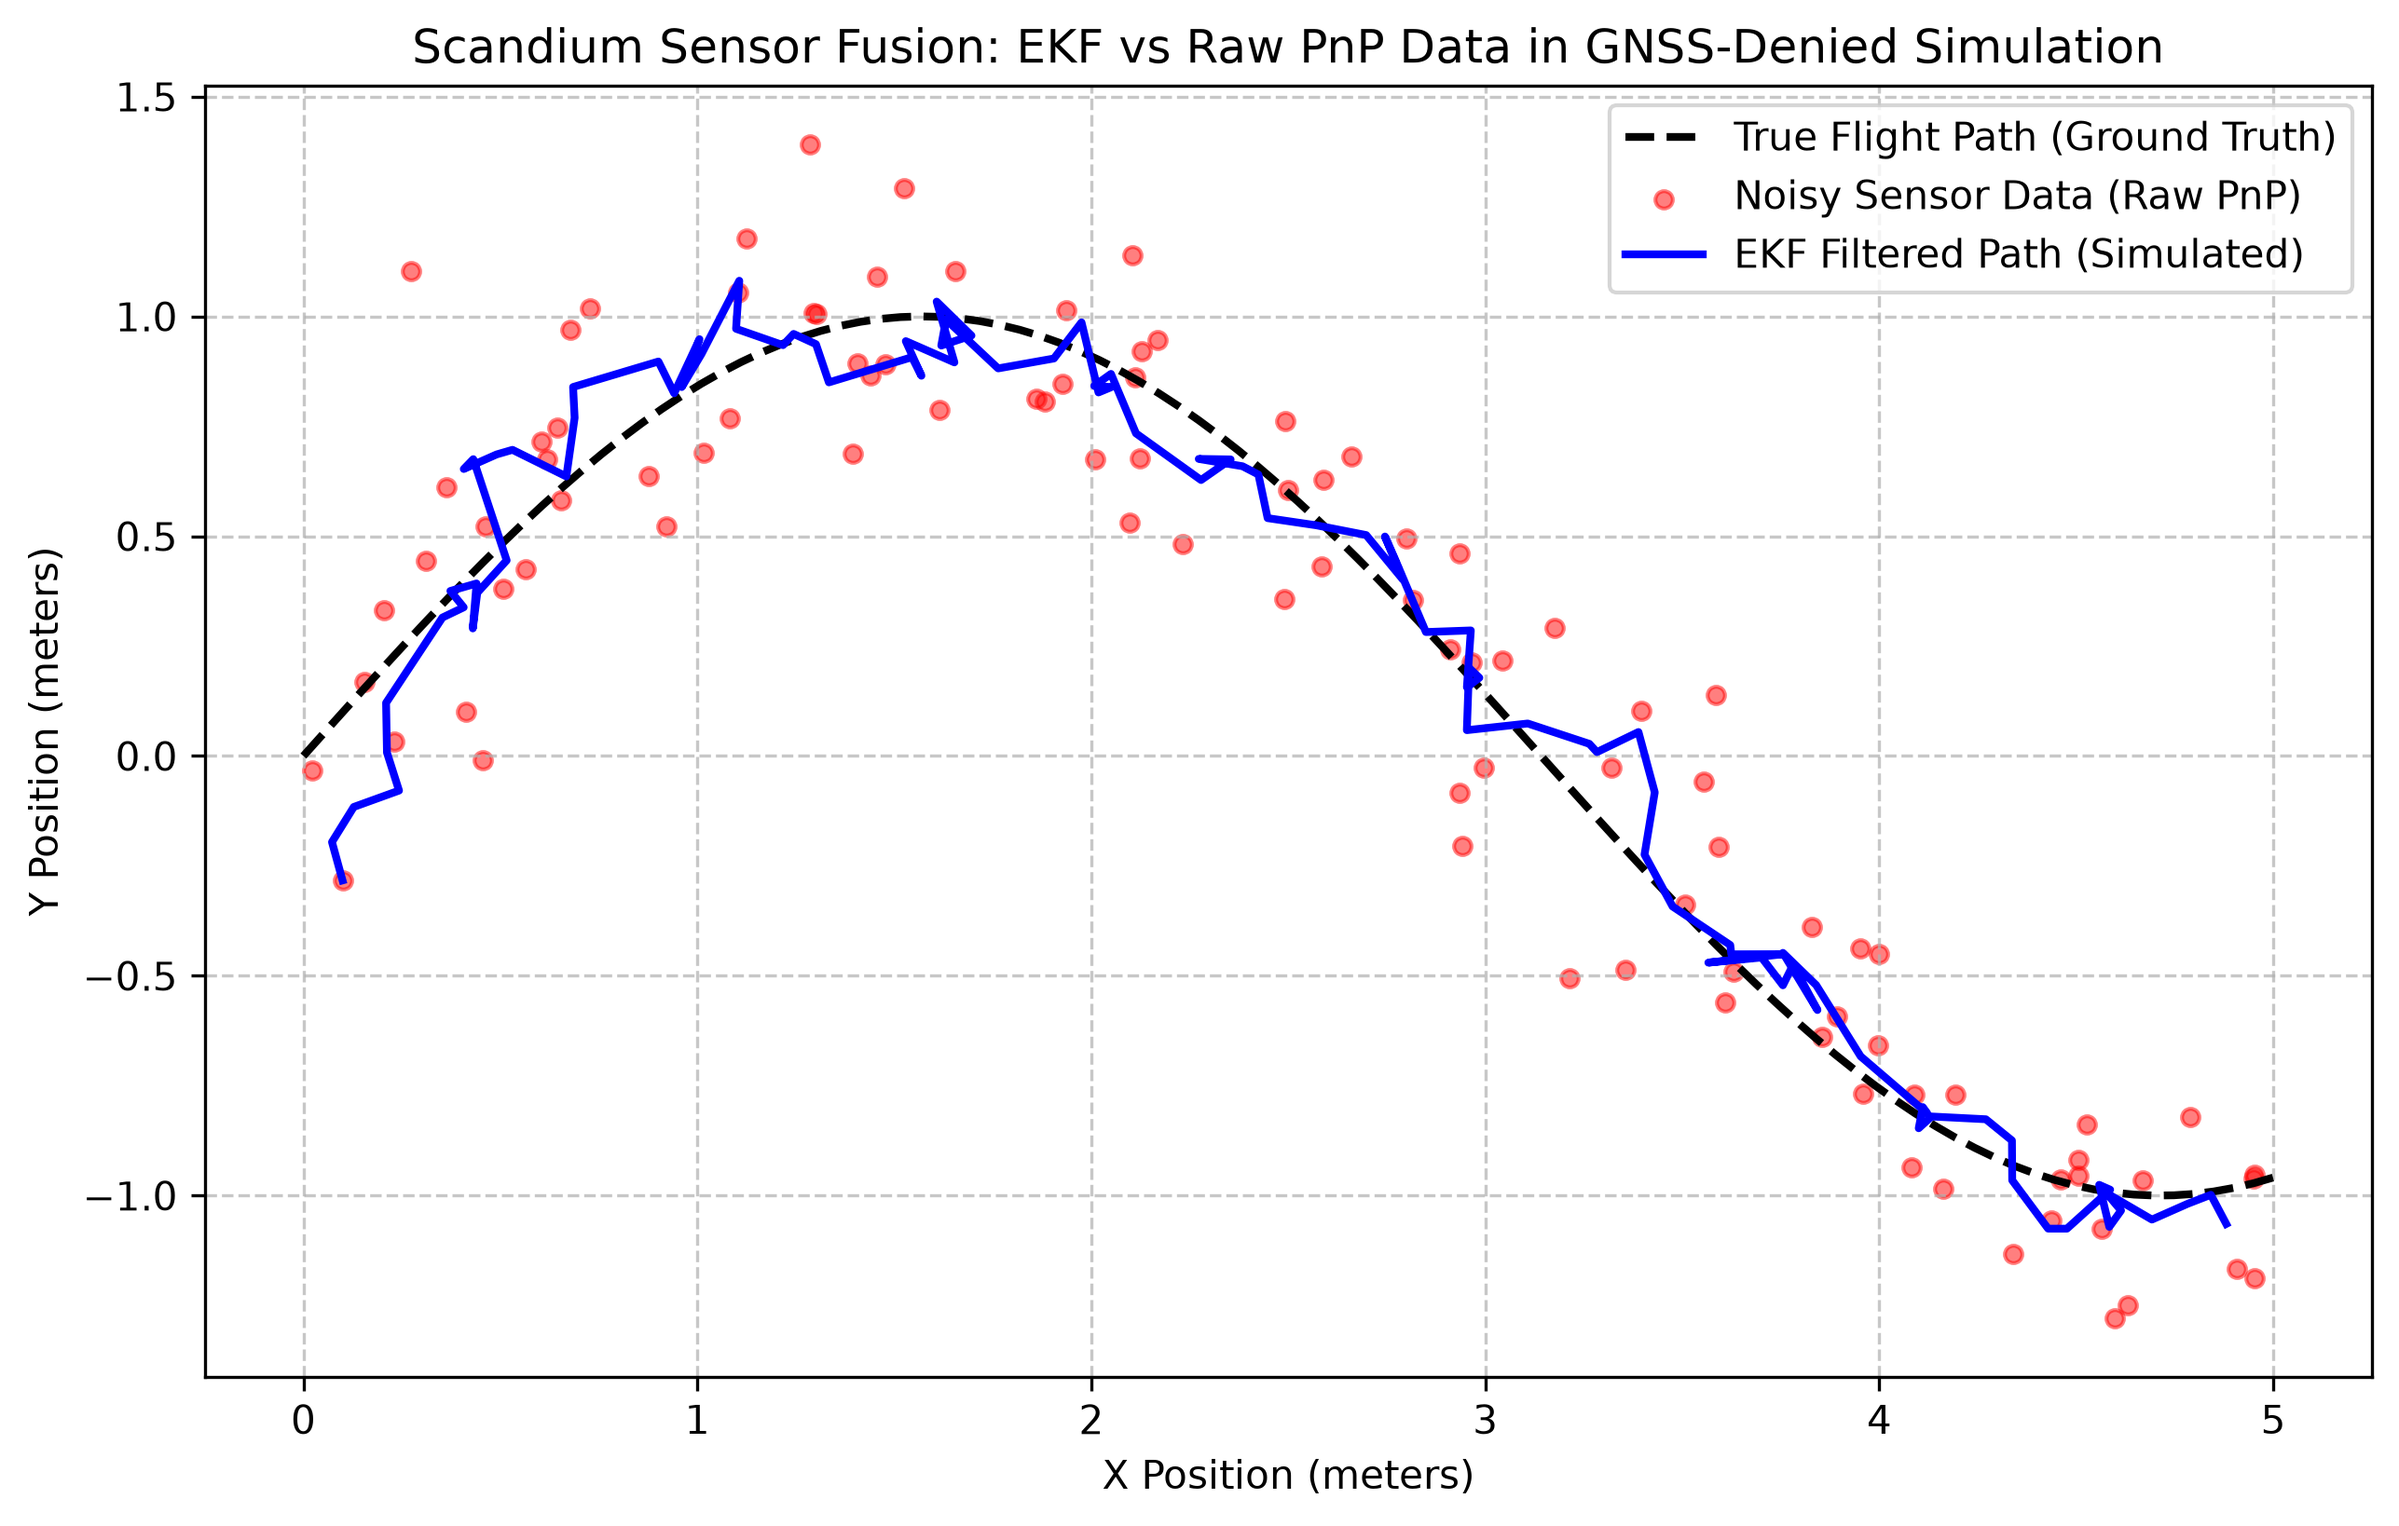
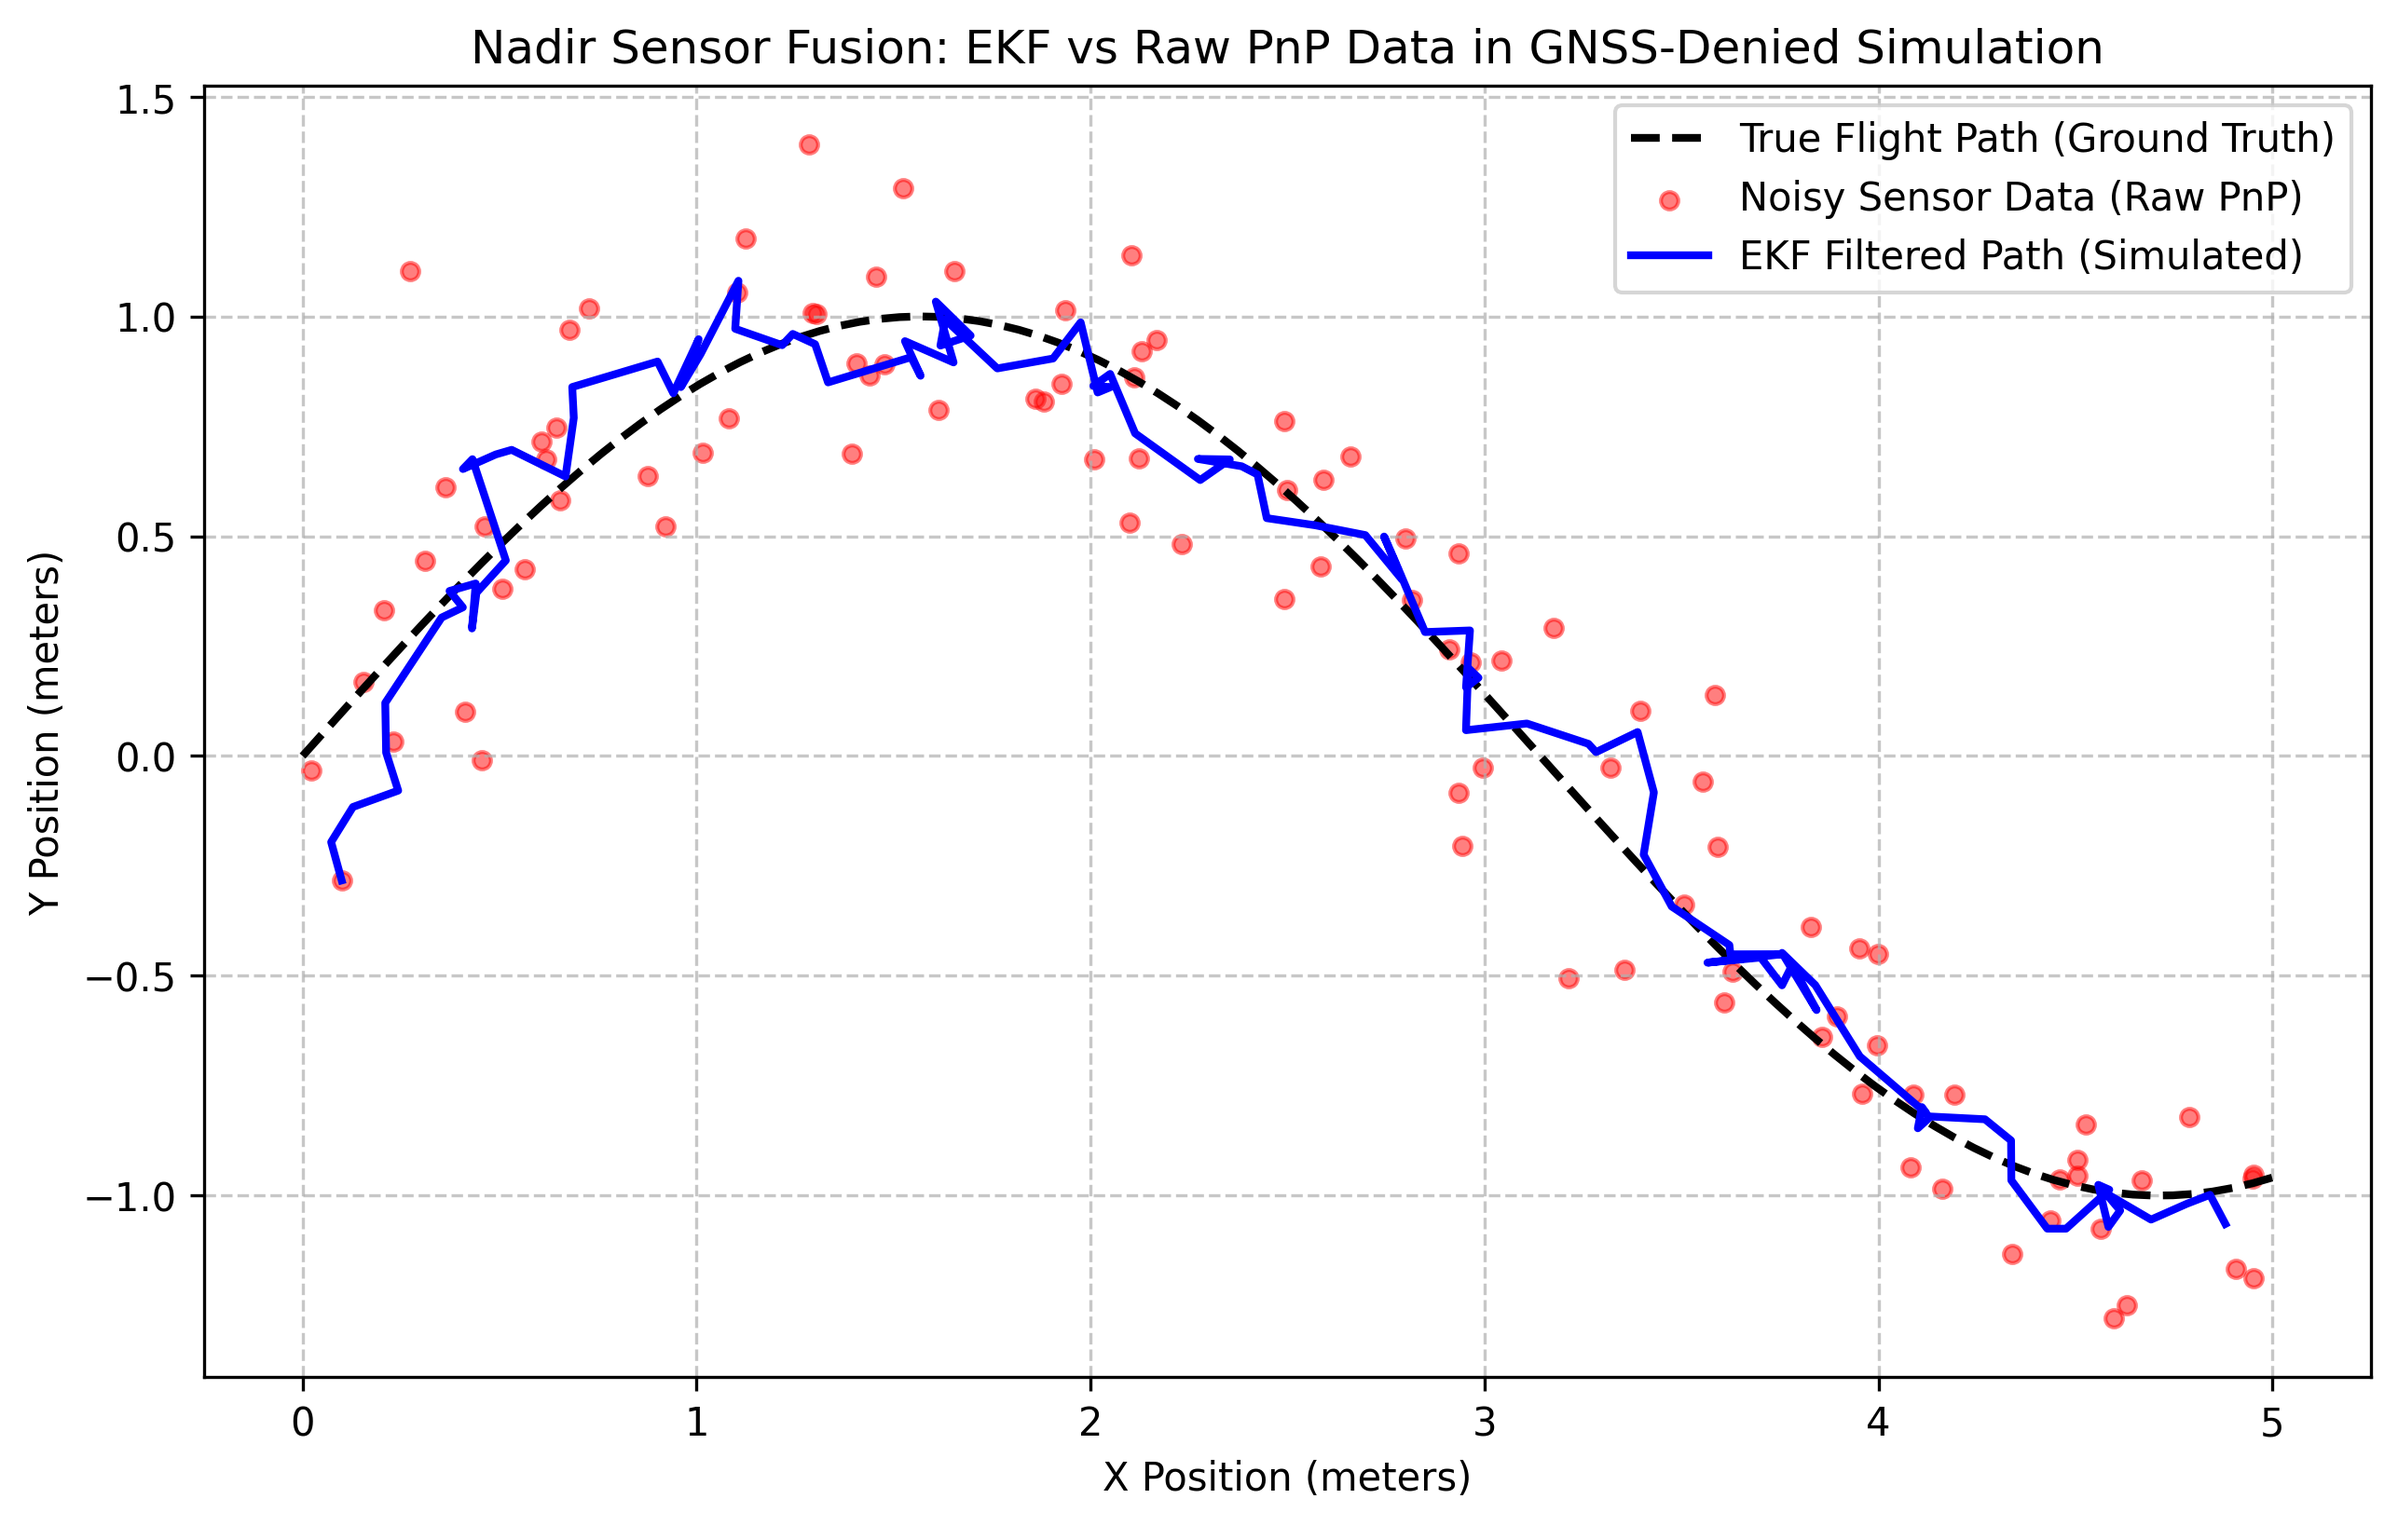
docs: align README with HITL/SITL constraints, remove SLAM hyperbole, update visuals to Nadir

diff --git a/README.md b/README.md
@@ -52,11 +52,11 @@ Camera-to-body frame coordinate transformation system utilizing Perspective-n-Po
 ### Flight Control: Advanced Guidance & B-Spline Trajectories
 Replacing legacy threshold-based FSM logic, the flight controller features an **Advanced Cascaded PID architecture with Feedforward Velocity Prediction** (heavily inspired by the kinematic constraints of Model Predictive Control horizons). During the final `DESCEND` phase, the system generates **3rd-order B-Spline trajectories**. This ensures the UAV follows a mathematically smooth polynomial curve to the touchdown zone, minimizing camera jitter caused by aggressive braking.
 
-### MAVLink Integration
-Native MAVLink protocol implementation for LANDING_TARGET message publishing. The system supports both UDP and serial transport layers, configurable publishing rates (10-50 Hz), and compatibility with PX4 and ArduPilot precision landing subsystems.
+### MAVLink Integration & Embedded Deployment
+Native MAVLink protocol implementation for LANDING_TARGET message publishing. Engineered for **real-time embedded deployment**, the system utilizes **C++17** for performance-critical filter paths and Python for high-level state orchestration. It supports both UDP and serial transport layers, configurable publishing rates (10-50 Hz), and compatibility with PX4 and ArduPilot precision landing subsystems.
 
 ### Advanced Deep Learning Landability Analysis (PyTorch)
-Computer vision-based landing zone safety assessment system. Powered by **PyTorch and Semantic Segmentation (DeepLabV3/UNet)**, the pipeline classifies the landing zone for obstacles and humans. The repository includes end-to-end ML fine-tuning scripts tailored for massive aerial datasets, exported natively to ONNXRuntime for ultra-low latency edge inference on companion computers.
+Computer vision-based landing zone safety assessment system implemented in `src/nadir/perception/landability`. Powered by **PyTorch and Semantic Segmentation (DeepLabV3/UNet)** and integrated YOLOv8 plugins (`yolo_plugin.py`), the pipeline classifies the landing zone for obstacles and humans. The repository includes end-to-end ML fine-tuning scripts exported natively to ONNXRuntime for ultra-low latency edge inference on companion computers.
 
 ### Finite State Machine & High-Level Autonomy
 Deterministic state machine implementation managing the complete autonomous landing sequence: INIT, IDLE, SEARCH, ACQUIRE, ALIGN, DESCEND, TOUCHDOWN, ABORT, and FAILSAFE states. State transitions are governed by rigid mathematical constraints ensuring fail-safe autonomy.
